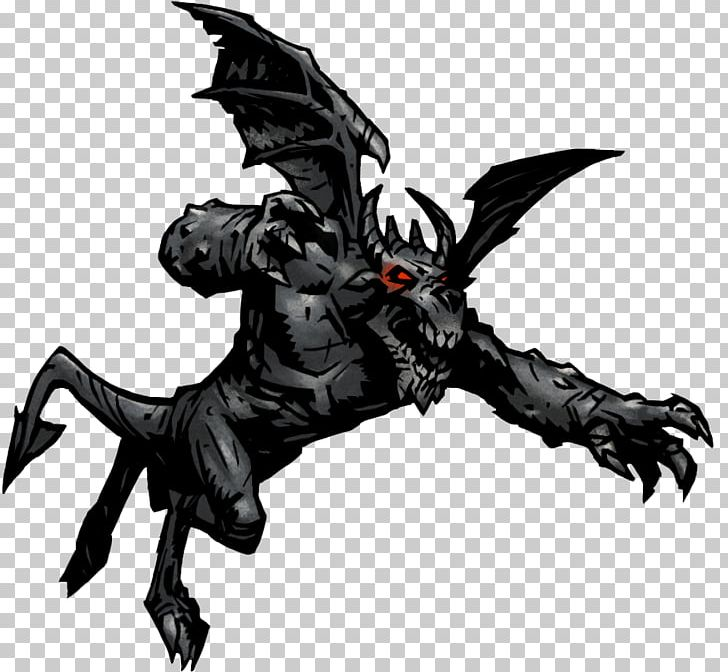
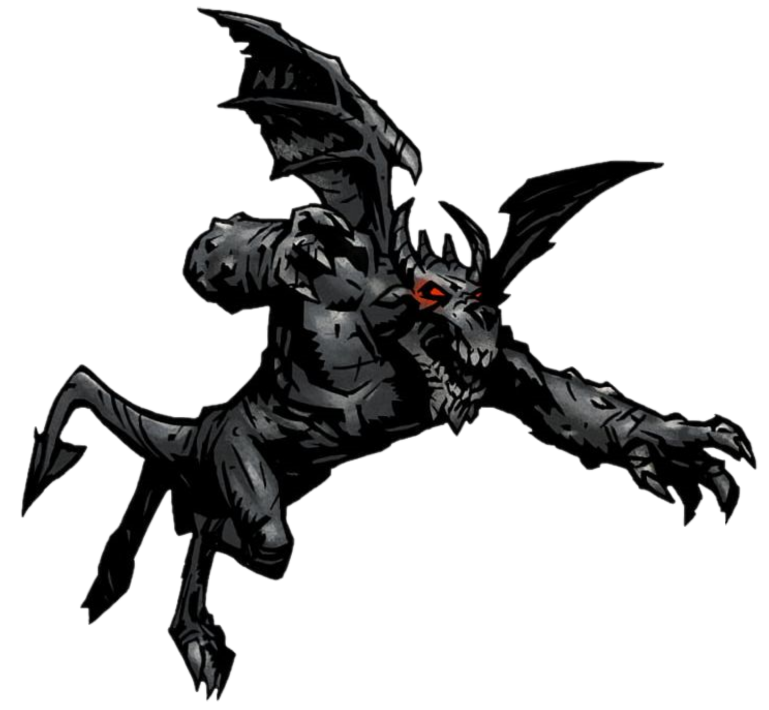
added some fixed pictures

diff --git a/src/Components/Game/CombatView/imageVariables.js b/src/Components/Game/CombatView/imageVariables.js
@@ -2,7 +2,7 @@ export const monsterImages = {
     goblin: `url(${require("../../pictures/gblin2.png")})`,
     imp: `url("https://encrypted-tbn0.gstatic.com/images?q=tbn%3AANd9GcR-mbmeBtUSFUTDkW6Wbi2WLe2nBIrk5HXPmXSOi24T-TrKbBYF&usqp=CAU")`,
     dragon: `url("https://encrypted-tbn0.gstatic.com/images?q=tbn%3AANd9GcRXHklPcBsDmjY1L0s74WVK3q9NXp-cAbWy8b0fb3GQ8b8CQ36z&usqp=CAU")`,
-    demon: `url(${require("../../pictures/demon.jpg")})`,
+    demon: `url(${require("../../pictures/demon.png")})`,
     skeleton: `url(${require("../../pictures/skeleton2.png")})`,
     beholder: `url(${require("../../pictures/beholder.png")})`,
     wraith: `url(${require("../../pictures/reaper.png")})`,

diff --git a/src/Components/Game/monsters.scss b/src/Components/Game/monsters.scss
@@ -7,7 +7,7 @@
 }
 
 .char-view-demon {
-    background: url('../pictures/demon.jpg');
+    background: url('../pictures/demon.png');
     @include mon-pic;
 }
 
